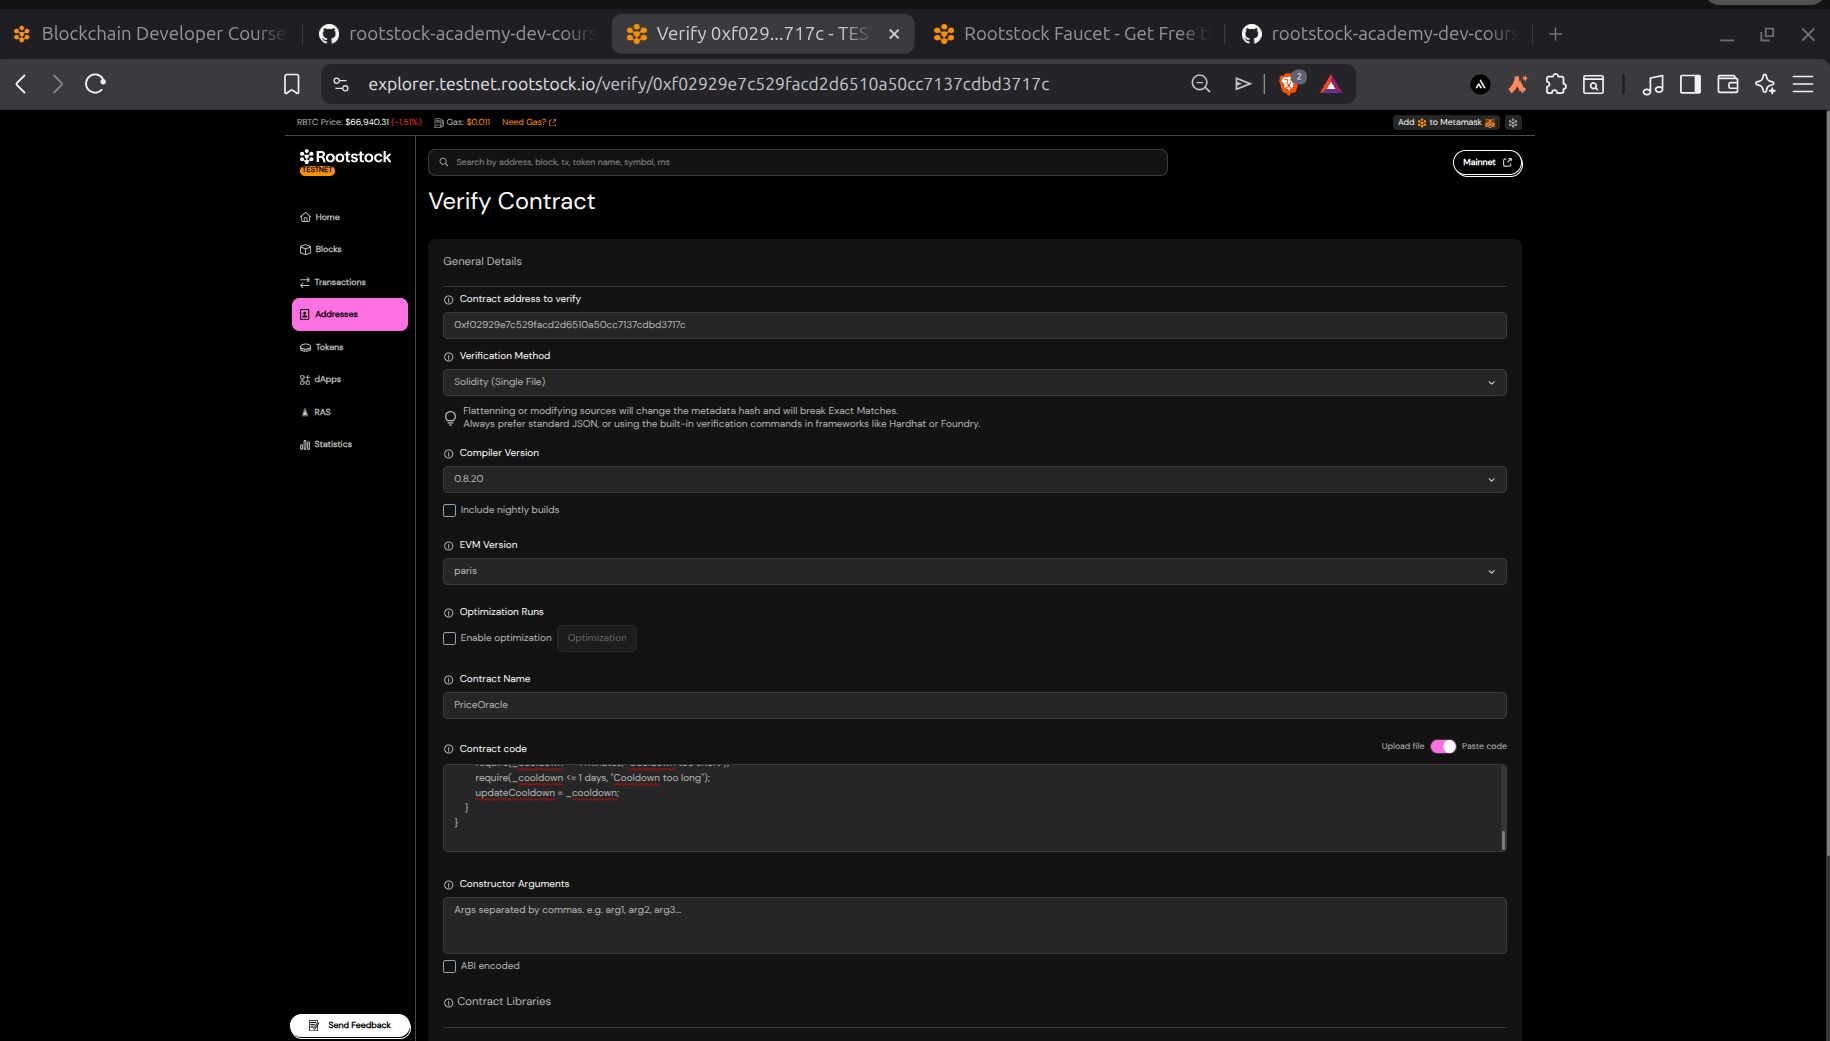
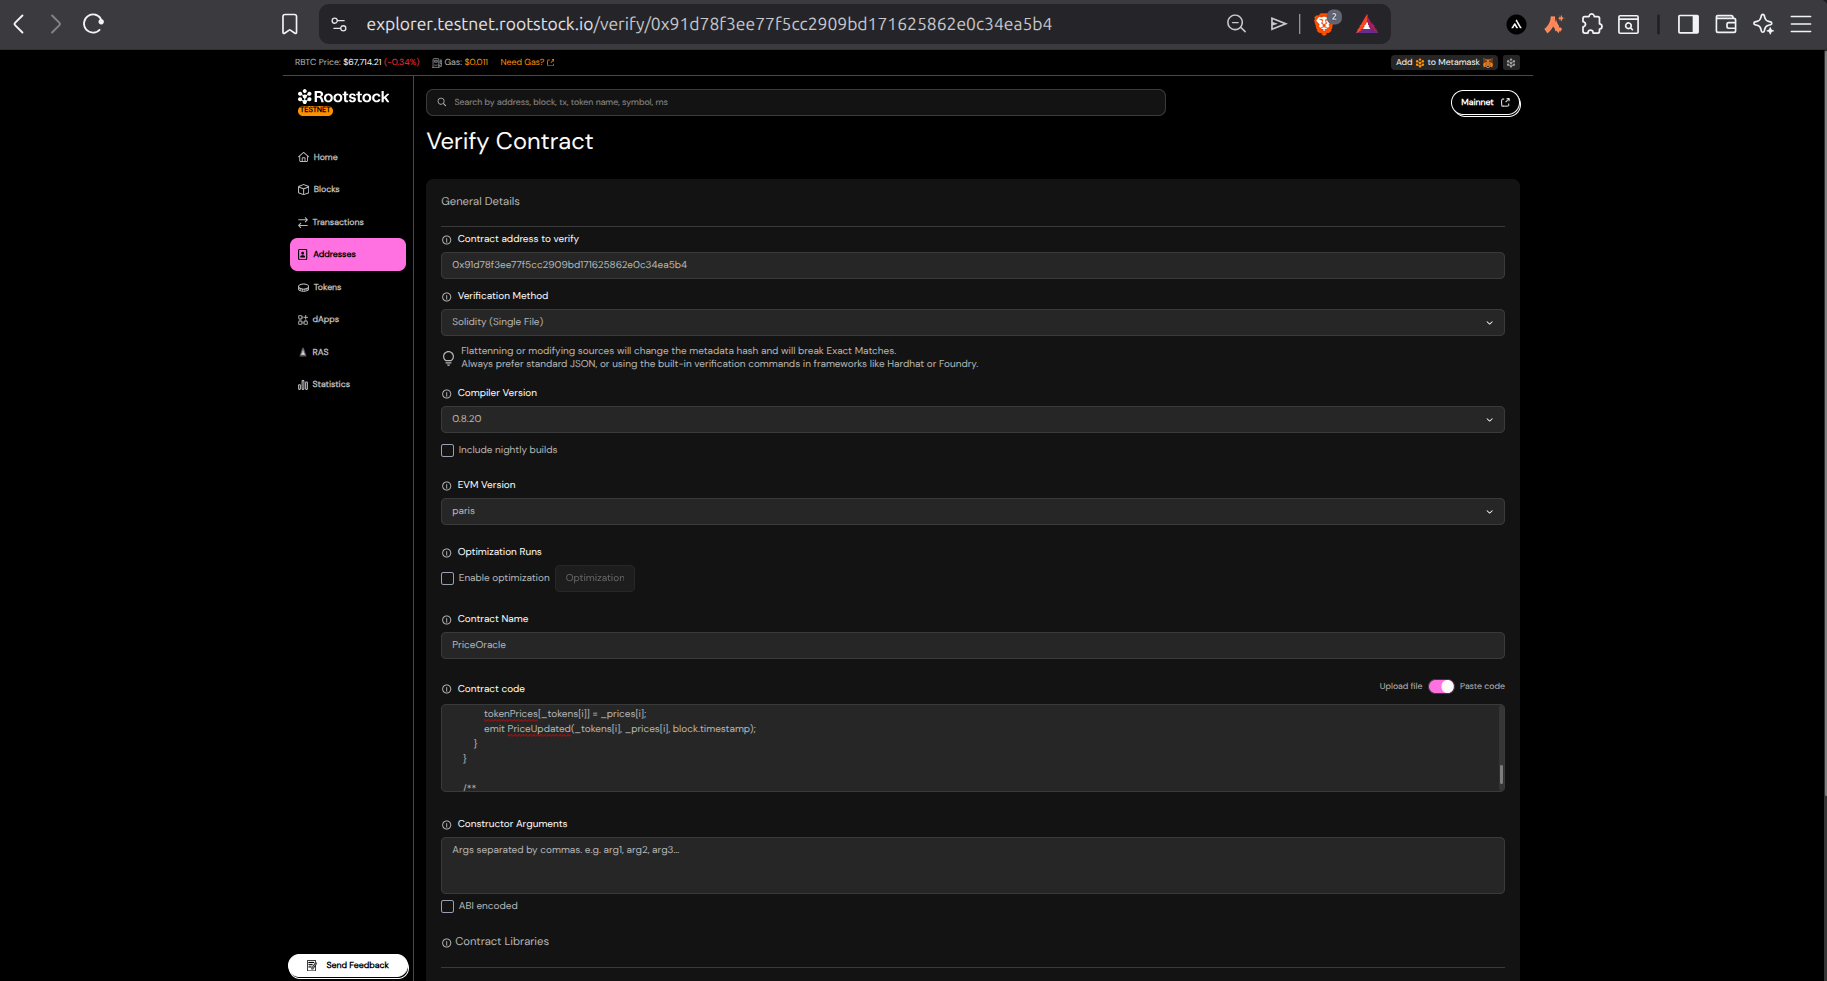
Complete Module 7: Smart Contract Verification

diff --git a/module7/hardhat.config.ts b/module7/hardhat.config.ts
@@ -12,7 +12,7 @@ import * as dotenv from "dotenv";
 // Load environment variables from .env file
 dotenv.config();
 
[1 lines of base64/hex data omitted]
+const PRIVATE_KEY = process.env.PRIVATE_KEY;
 
 // 2: Define RPC URLs
 const RSK_TESTNET_RPC = process.env.RSK_TESTNET_RPC || "https://public-node.testnet.rsk.co";

diff --git a/module7/assessment/commands-and-outputs.md b/module7/assessment/commands-and-outputs.md
@@ -10,17 +10,17 @@ Provide the RSK Testnet Explorer URLs for each verified contract:
 
 ### SimpleToken
 ```text
-https://explorer.testnet.rootstock.io/address/0xa4edb4e680f1c9a541ff66a6a6313d4553774112
+https://explorer.testnet.rootstock.io/address/0xeaa80e1d23ff9060f5adcf970be4fef005c0d6b4
 ```
 
 ### PriceOracle
 ```text
-https://explorer.testnet.rootstock.io/address/0xf02929e7c529facd2d6510a50cc7137cdbd3717c
+https://explorer.testnet.rootstock.io/address/0x91d78f3ee77f5cc2909bd171625862e0c34ea5b4
 ```
 
 ### NFTMarketplace
 ```text
-https://explorer.testnet.rootstock.io/address/0xbe31a8d1712947614e3f33ec8298a3afa31a0e5b
+https://explorer.testnet.rootstock.io/address/0xa8d25ceb704dfdc8f91d04d9274d01099e94c048
 ```
 
 ---
@@ -48,5 +48,5 @@ This should show the green checkmark and the verified source code.
 Add any notes or observations from your verification process:
 
 ```text
-I noticed that i cannot verify twice, once i got the verification right the first time, i cannot verify again and i cannot use any solidity version other than the one i deployed with.
+ A contract can only be verified once, using the exact Solidity version and compiler settings it was deployed with. To make changes, deploy a new contract.
 ```
